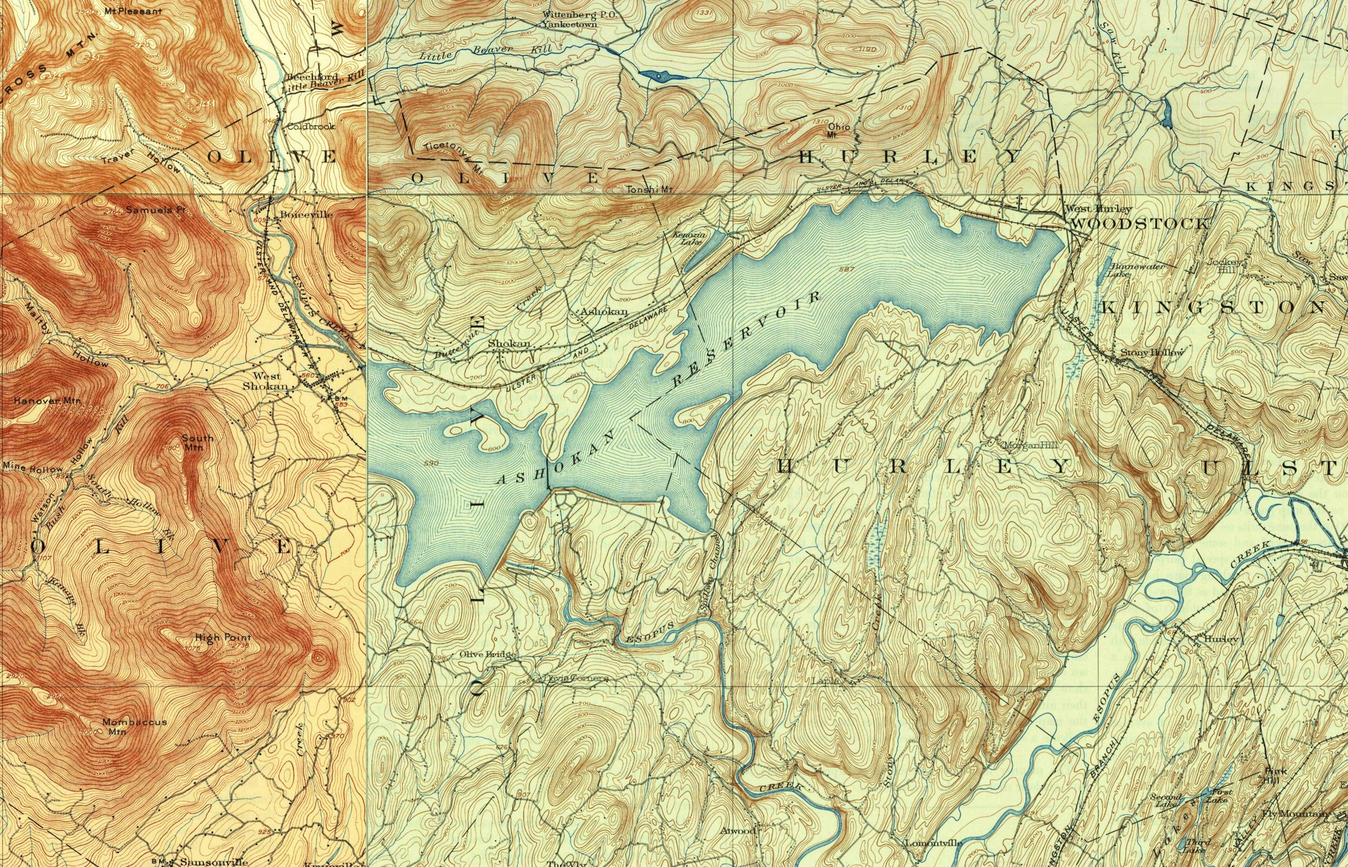
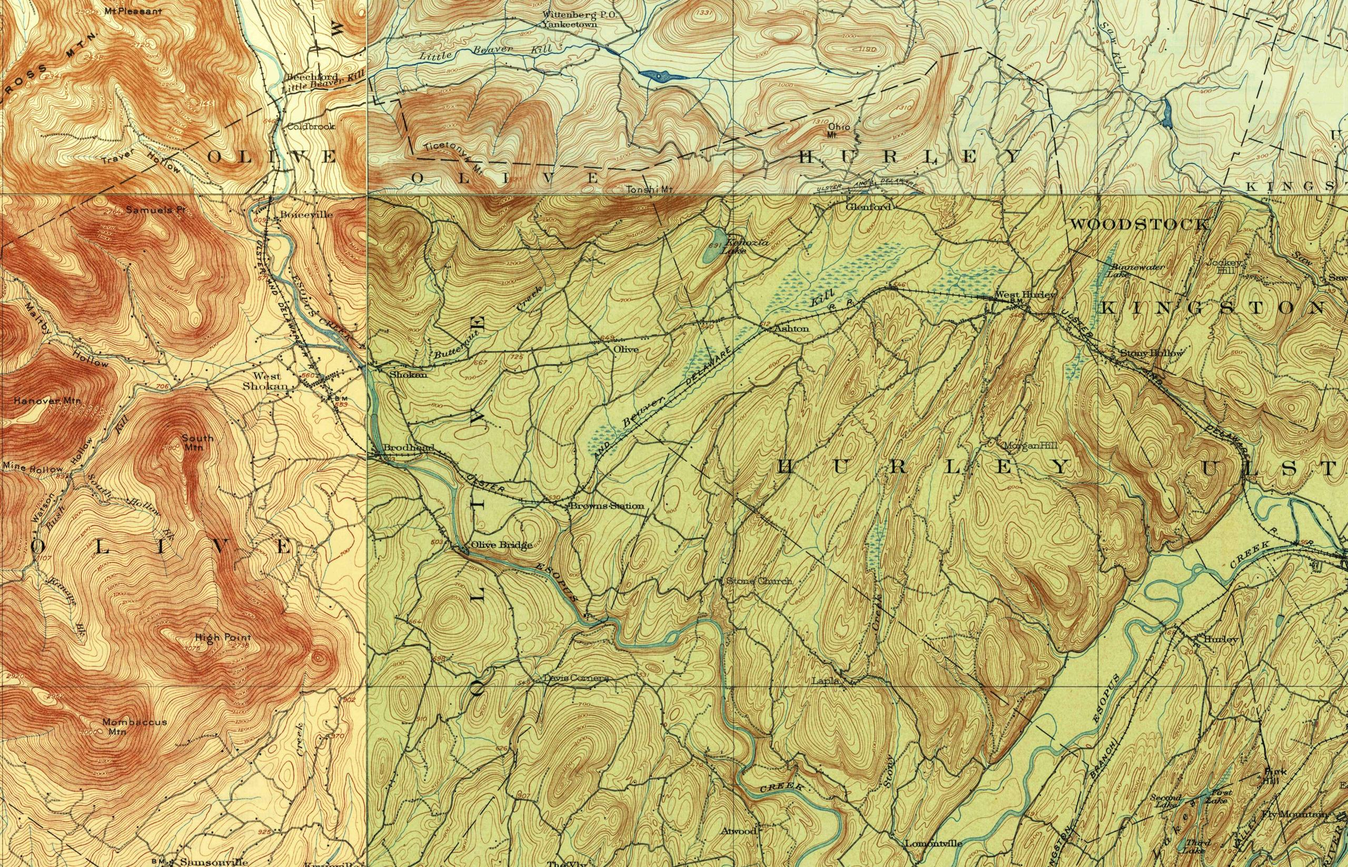
Ashokan's pre-dam map: use the true 1903 Rosendale printing, not the reprint with the reservoir drawn in
Claude-Session: https://claude.ai/code/session_01LXhDMrmviJH37T58DZayoe

diff --git a/pipeline/map_editions.py b/pipeline/map_editions.py
@@ -34,7 +34,10 @@ EDITIONS = {
     "cannonsville": [(0, 1940), (1941, 1962), (1965, 2010)],
     "city": [(0, 1892), (1893, 1901), (1930, 1950), (1951, 1970), (1971, 2010)],
 }
-FILL = {"ashokan": (1912, 1912)}   # areas not in old_maps.VALLEYS: (fill start, map cutoff)
+FILL = {"ashokan": (1912, 1912)}
+# sheets left out: later printings that keep the survey date but add the reservoir (the Rosendale
+# 1903 reprint, item 129222, has Ashokan drawn on it; item 148354 is the true pre-dam printing)
+EXCLUDE = {"129222"}   # areas not in old_maps.VALLEYS: (fill start, map cutoff)
 NO_RESERVOIR = {"city"}   # one phase: any edition may lend a sheet to another
 
 
@@ -69,6 +72,8 @@ def pick(items, lo, hi):
     """Per quadrangle and scale, the latest sheet printed in [lo, hi]."""
     best = {}
     for it in items:
+        if any(f"_{x}_" in it["downloadURL"] for x in EXCLUDE):
+            continue
         year = int(it["publicationDate"][:4])
         scale = next((s for s in SCALE_RANK if f"{s}-scale" in it["title"] or f"_{s}_" in it["downloadURL"]), None)
         if scale is None or not lo <= year <= hi:
